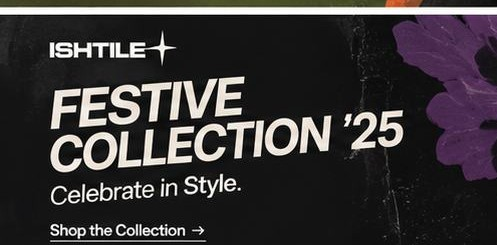
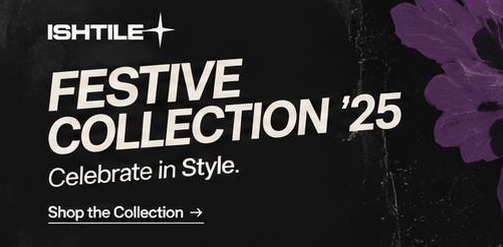
Changes

diff --git a/src/components/home/Hero.tsx b/src/components/home/Hero.tsx
@@ -14,7 +14,7 @@ function Headline({ className }: { className?: string }) {
   return (
     <h1
       className={cn(
-        "font-headline font-extrabold italic uppercase leading-[0.88] tracking-[-0.03em]",
+        "font-headline font-extrabold italic uppercase tracking-[-0.03em] [&>span]:leading-[0.9]",
         className,
       )}
     >
@@ -135,7 +135,7 @@ export function MobileHero() {
             />
             <div className="absolute inset-0 bg-gradient-to-b from-ink/30 via-transparent to-ink/80" />
             <div className="absolute bottom-[11%] left-[7%] right-[6%] origin-bottom-left -rotate-[8deg]">
-              <h2 className="font-headline text-[15.5vw] font-extrabold italic uppercase leading-[0.86] tracking-[-0.035em]">
+              <h2 className="font-headline text-[15.5vw] font-extrabold italic uppercase tracking-[-0.035em] [&>span]:leading-[0.88]">
                 {s.lines.map((l) => (
                   <span key={l} className="block text-ink-foreground">
                     {l}

diff --git a/src/components/home/Collections.tsx b/src/components/home/Collections.tsx
@@ -12,8 +12,8 @@ import { Sparkle } from "./icons";
 const desktopCollections = [
   { image: colSpring, alt: "Spring '25 — Fresh Fits. New Vibes.", w: 751, h: 370 },
   { image: colSummer, alt: "Summer Essentials '25 — Lightweight. Breathable. Effortless.", w: 751, h: 370 },
-  { image: colFestive, alt: "Festive Collection '25 — Celebrate in Style.", w: 497, h: 245 },
-  { image: colMonsoon, alt: "Monsoon Collection '25 — Stay Stylish. Even in the Rain.", w: 497, h: 245 },
+  { image: colFestive, alt: "Festive Collection '25 — Celebrate in Style.", w: 503, h: 247 },
+  { image: colMonsoon, alt: "Monsoon Collection '25 — Stay Stylish. Even in the Rain.", w: 503, h: 247 },
 ];
 
 export function DesktopCollections() {

diff --git a/src/components/home/FeaturedProducts.tsx b/src/components/home/FeaturedProducts.tsx
@@ -42,7 +42,7 @@ export function FeaturedProducts() {
                 </button>
               </div>
               <div className="flex flex-1 flex-col justify-between gap-2 px-2.5 pb-3 pt-2.5 md:px-3">
-                <h3 className="max-w-[11rem] text-[15px] font-medium leading-snug tracking-[-0.01em] md:text-[15px]">
+                <h3 className="max-w-[10rem] text-[15px] font-medium leading-snug tracking-[-0.01em] md:text-[15px]">
                   {p.name}
                 </h3>
                 <p className="text-[15px] font-medium tabular-nums md:text-base">{formatTaka(p.price)}</p>
